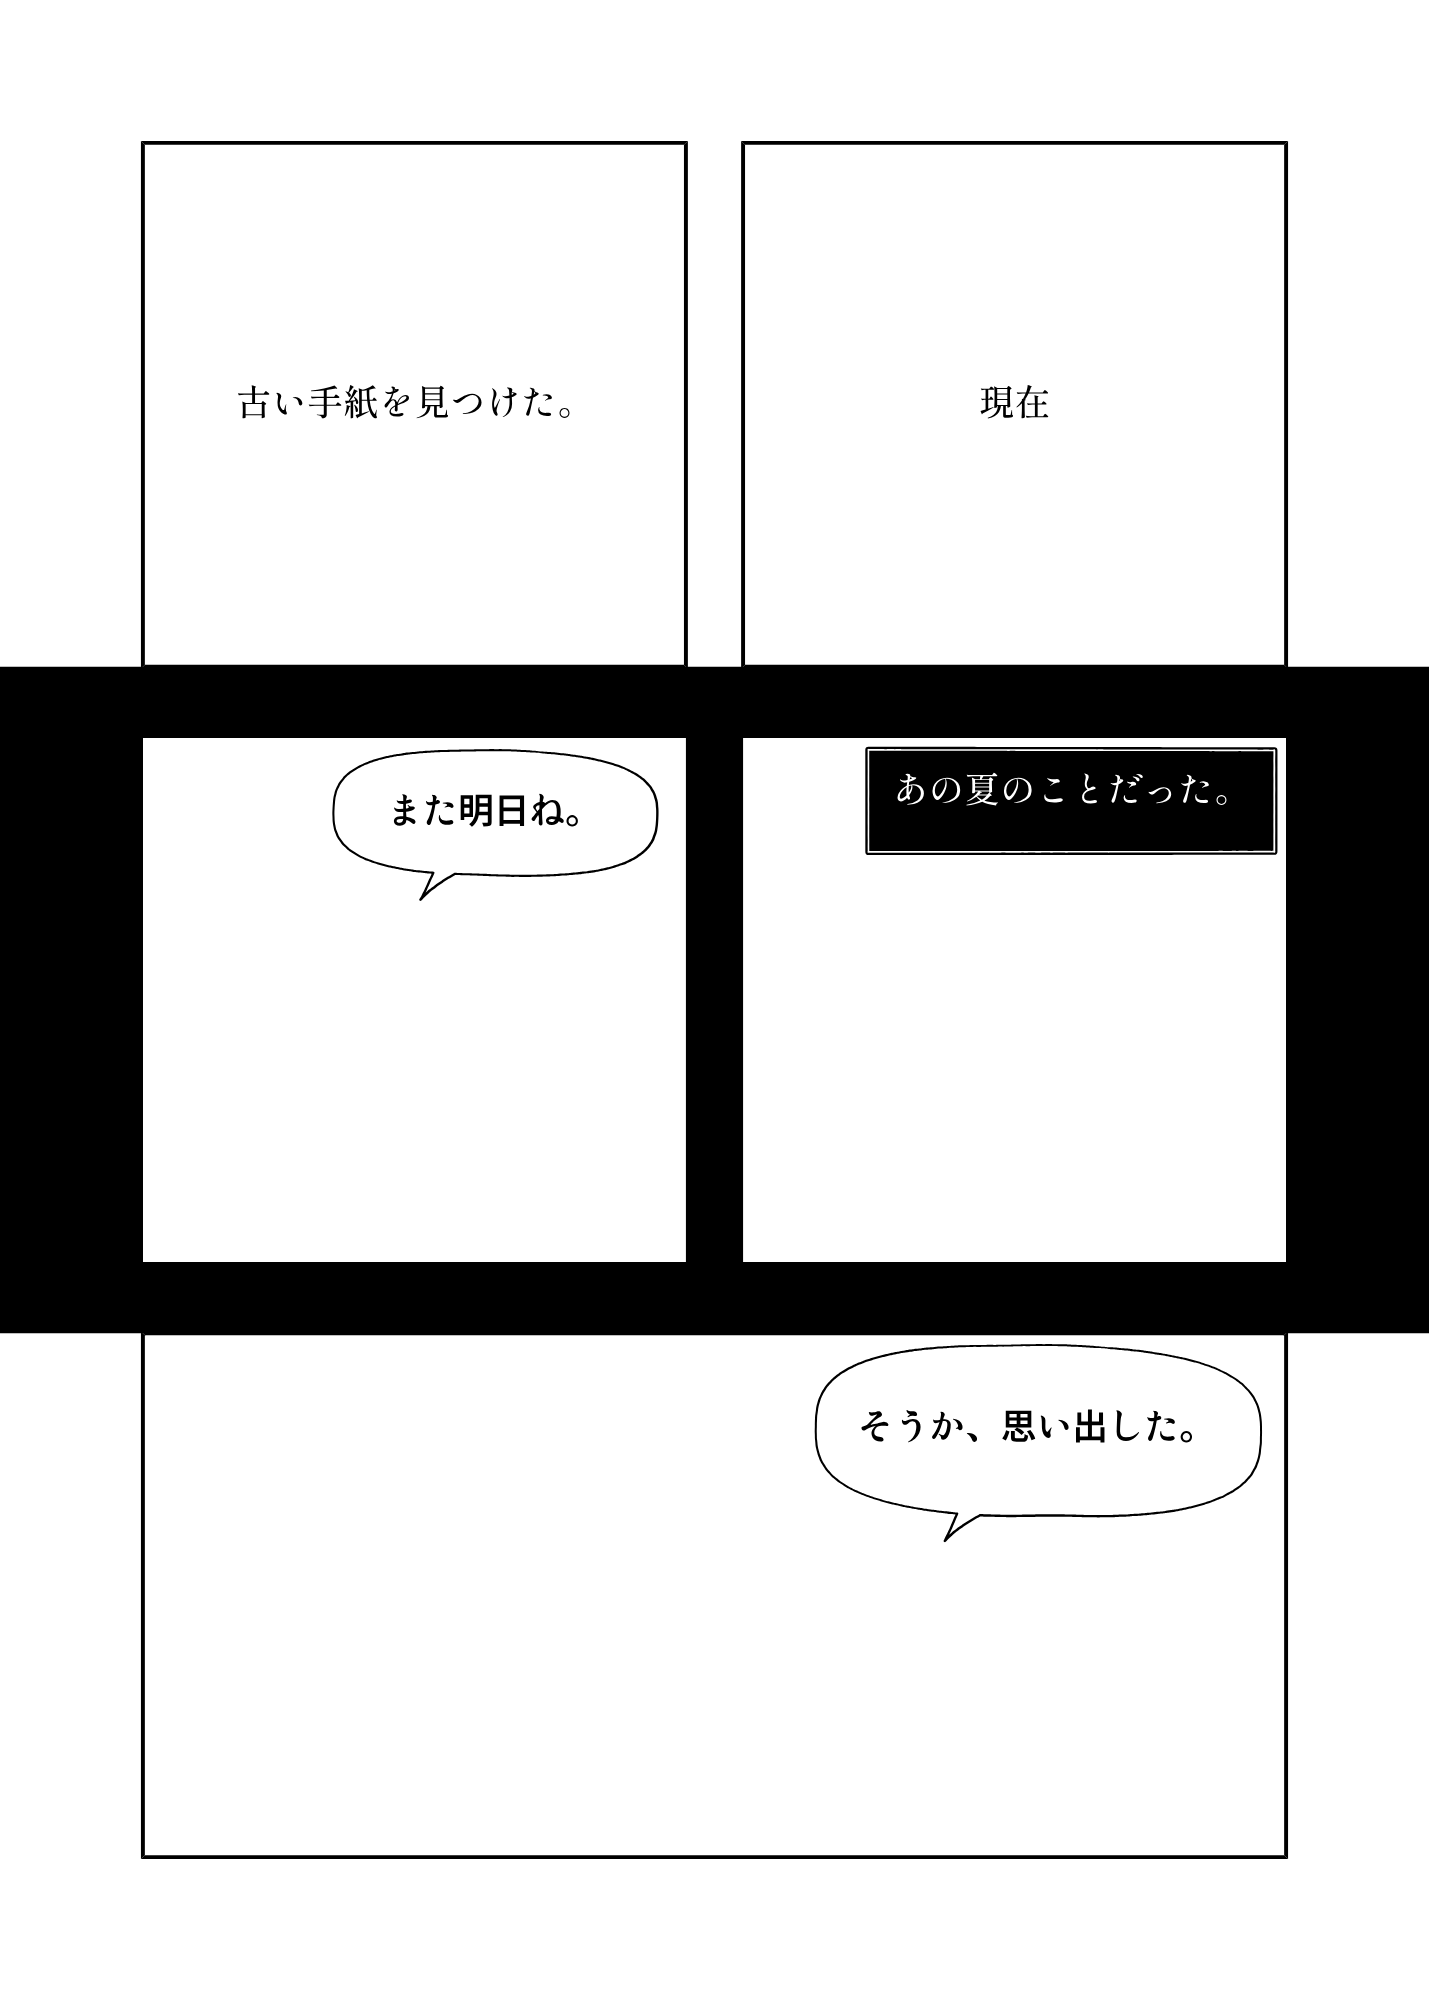
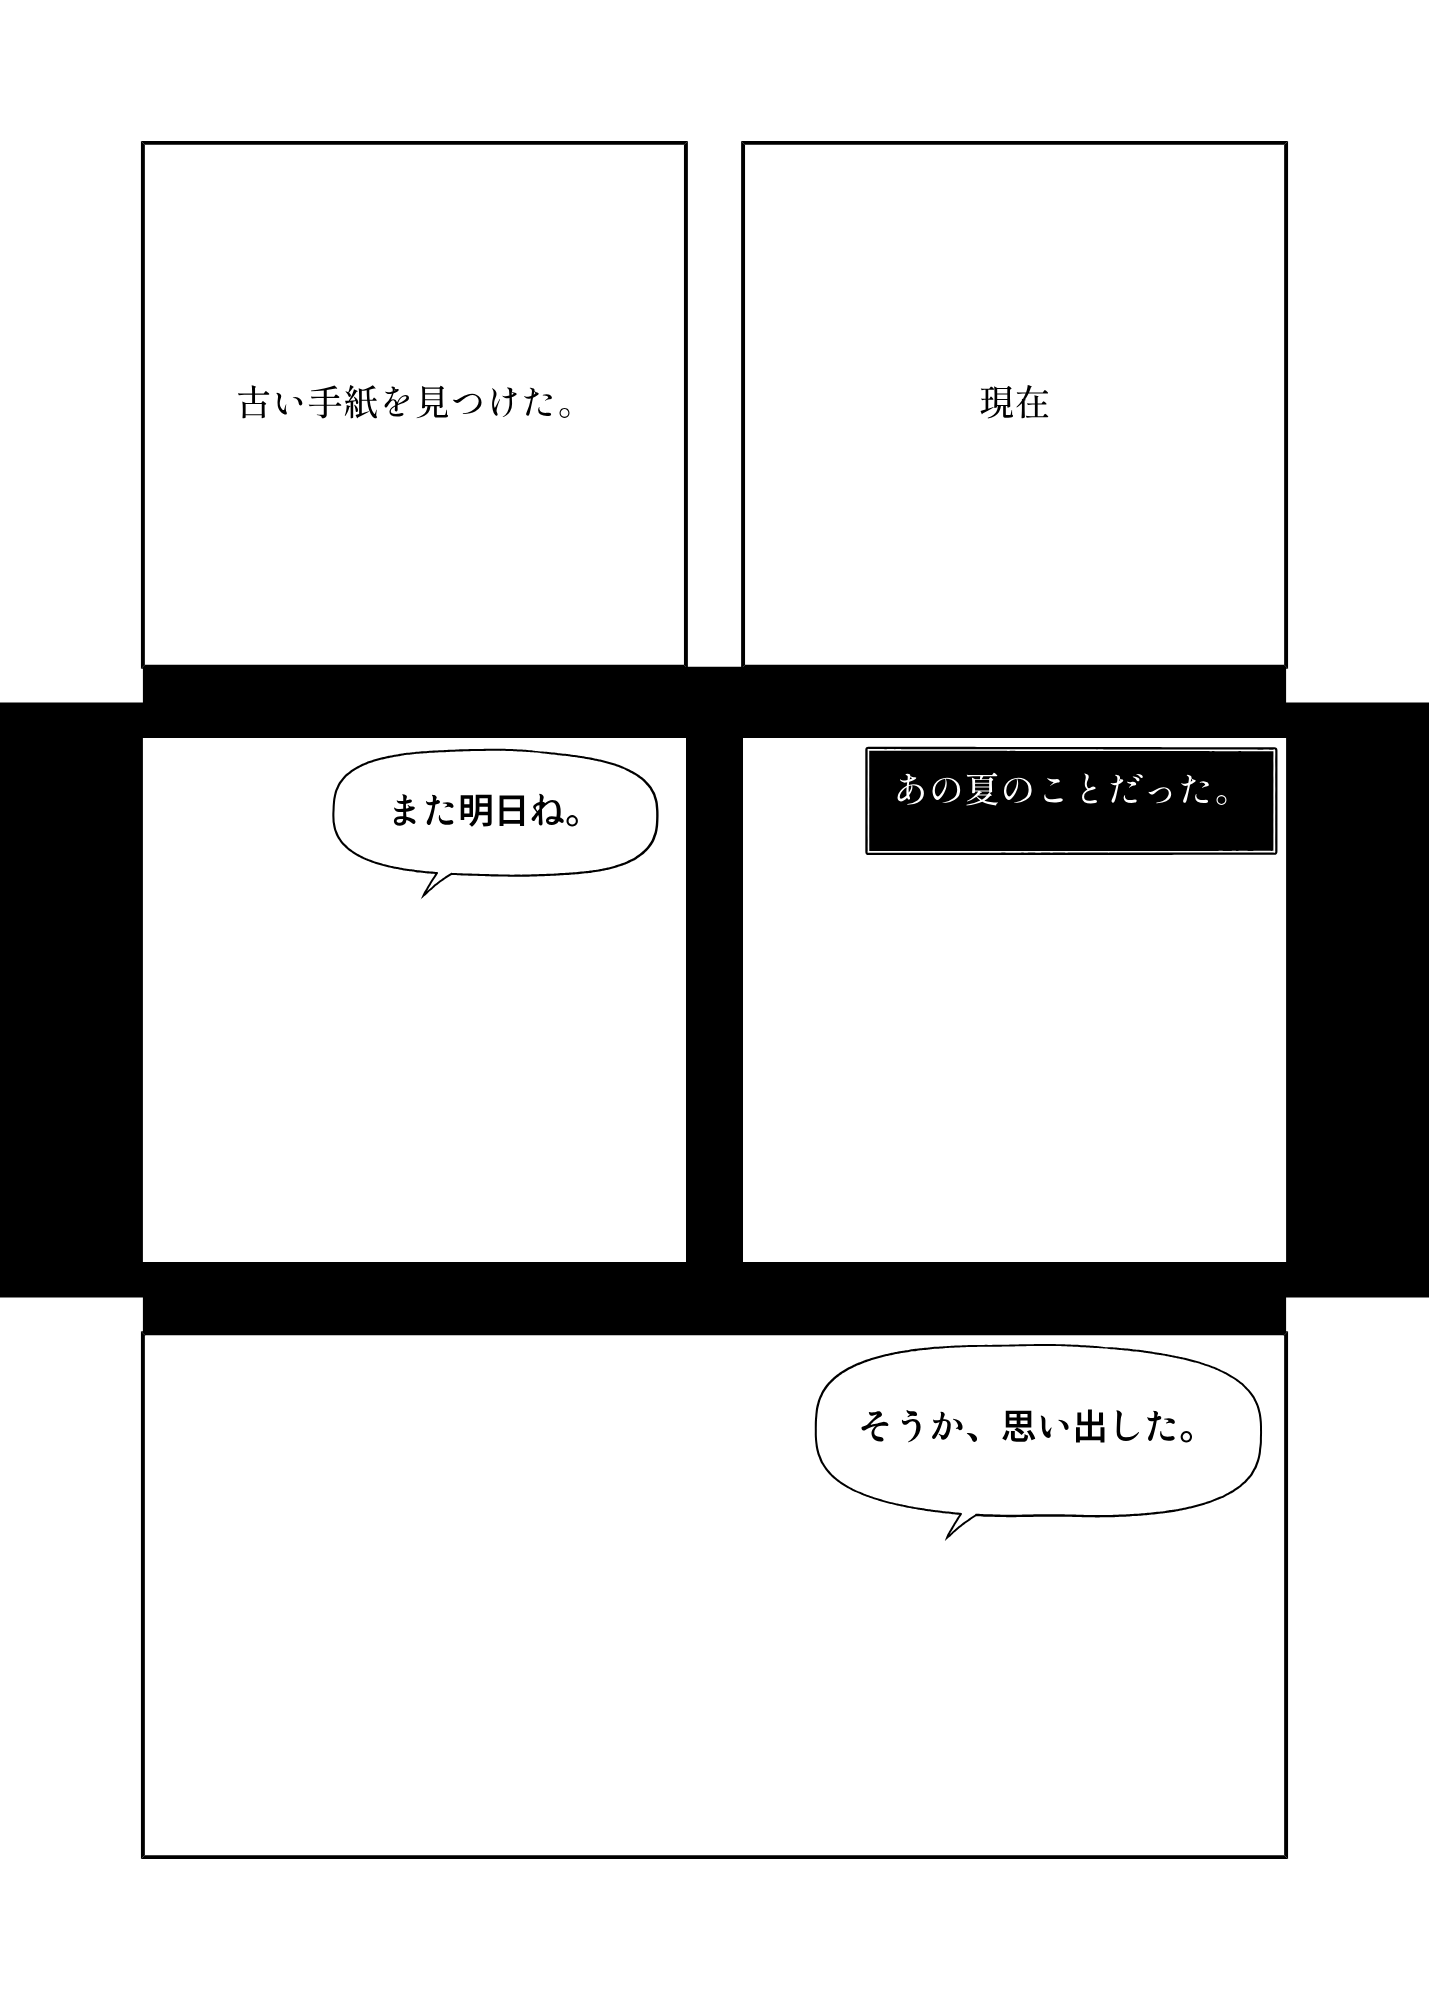
回想コマが接する外側の余白を断ち切りまで黒くする (#105)
* 回想コマが接する外側の余白を断ち切りまで黒くする

* 回想の外側余白を隣の通常コマとの間白中央で区切る

* 断ち切りコマ間の回想の黒い間白を基本枠の外にも保つ

---------

diff --git a/src/render/compose.ts b/src/render/compose.ts
@@ -479,7 +479,11 @@ export async function composePage(doc: ResolvedDoc, page: RPage, physicalIndex: 
   }
   if (page.settings.mood !== "flashback") {
     const flashbackPanels = panels.filter((pg) => pg.panel.props.mood === "flashback" && pg.panel.props.visible !== false && pg.polygon.length >= 3 && Math.abs(polygonArea(pg.polygon)) > 1e-8);
-    const regions = flashbackPanels.flatMap((pg) => flashbackRegion(pg, panels, area, page, geom));
+    const frame = [rectPts(area).map(({ x, y }) => [x, y] as [number, number])];
+    const regions = flashbackPanels.flatMap((pg) => {
+      const interior = polygonClipping.union(frame, ...flashbackGutters(pg, panels));
+      return [...polygonClipping.intersection(flashbackRegion(pg, panels, area, page, geom), interior), ...flashbackMargins(pg, panels, geom)];
+    });
     if (regions.length) {
       const interiors = panelOutlines(panels, geom);
       const surround = polygonClipping.difference(polygonClipping.union(regions[0], ...regions.slice(1)), ...interiors);
@@ -558,6 +562,88 @@ function compositeNodes(nodes: Node[], props: Obj, bag: DiagnosticBag, path: (st
 
 function multiPolyPath(polys: polygonClipping.MultiPolygon) {
   return polys.flatMap((poly) => poly.flatMap((ring) => polyPath(ring.map(([x, y]) => ({ x, y })), true)));
+}
+function flashbackGutters(pg: PanelGeom, panels: PanelGeom[]): polygonClipping.Polygon[] {
+  const pieces: polygonClipping.Polygon[] = [];
+  const sign = polygonArea(pg.polygon) > 0 ? 1 : -1;
+  for (let i = 0; i < pg.polygon.length; i++) {
+    const a = pg.polygon[i], b = pg.polygon[(i + 1) % pg.polygon.length];
+    const len = Math.hypot(b.x - a.x, b.y - a.y);
+    if (len < 1e-8) continue;
+    const n = { x: sign * (b.y - a.y) / len, y: sign * (a.x - b.x) / len };
+    const dot = (p: Vec) => p.x * n.x + p.y * n.y;
+    const tangent = (p: Vec) => -n.y * p.x + n.x * p.y;
+    const ta = tangent(a), tb = tangent(b), edge = dot(a);
+    for (const other of panels) {
+      if (other === pg || other.panel.props.visible === false || other.polygon.length < 3) continue;
+      const gap = Math.min(...other.polygon.map(dot)) - edge;
+      const ts = other.polygon.map(tangent);
+      const lo = Math.max(Math.min(ta, tb), Math.min(...ts));
+      const hi = Math.min(Math.max(ta, tb), Math.max(...ts));
+      if (gap <= 0.01 || hi - lo <= 0.01) continue;
+      const p = { x: a.x - n.y * (lo - ta), y: a.y + n.x * (lo - ta) };
+      const q = { x: a.x - n.y * (hi - ta), y: a.y + n.x * (hi - ta) };
+      pieces.push([[p, q, { x: q.x + n.x * gap, y: q.y + n.y * gap }, { x: p.x + n.x * gap, y: p.y + n.y * gap }].map(({ x, y }) => [x, y])]);
+    }
+  }
+  return pieces;
+}
+function flashbackMargins(pg: PanelGeom, panels: PanelGeom[], geom: PageGeom): polygonClipping.MultiPolygon {
+  const pieces: polygonClipping.MultiPolygon = [];
+  const ring = (poly: Vec[]): polygonClipping.Ring => poly.map(({ x, y }) => [x, y]);
+  const bleed = geom.bleedBox;
+  const sign = polygonArea(pg.polygon) > 0 ? 1 : -1;
+  for (let i = 0; i < pg.polygon.length; i++) {
+    const a = pg.polygon[i], b = pg.polygon[(i + 1) % pg.polygon.length];
+    const nx = sign * (b.y - a.y), ny = sign * (a.x - b.x);
+    if (Math.hypot(nx, ny) < 1e-8) continue;
+    if (pg.polygon.some((p) => (p.x - a.x) * nx + (p.y - a.y) * ny > 1e-8)) continue;
+    const horizontal = Math.abs(nx) >= Math.abs(ny);
+    const positive = (horizontal ? nx : ny) > 0;
+    const target = horizontal ? bleed.x + (positive ? bleed.w : 0) : bleed.y + (positive ? bleed.h : 0);
+    const project = (p: Vec): Vec => horizontal ? { x: target, y: p.y } : { x: p.x, y: target };
+    const transverse = (p: Vec) => horizontal ? p.y : p.x;
+    const corridor = [ring([a, b, project(b), project(a)])];
+    if (Math.abs(polygonArea([a, b, project(b), project(a)])) < 1e-8) continue;
+    const start = transverse(a), span = transverse(b) - start;
+    if (Math.abs(span) < 1e-8) continue;
+    let visible = [[0, 1]];
+    const blocked: number[] = [];
+    for (const other of panels) {
+      if (other.panel.props.visible === false || other.polygon.length < 3) continue;
+      const overlap = polygonClipping.intersection(corridor, [ring(other.polygon)]);
+      for (const poly of overlap) {
+        const contour = poly[0].map(([x, y]) => ({ x, y }));
+        if (Math.abs(polygonArea(contour)) < 1e-8) continue;
+        const ts = contour.map((p) => (transverse(p) - start) / span);
+        const lo = Math.max(0, Math.min(...ts)), hi = Math.min(1, Math.max(...ts));
+        blocked.push(lo, hi);
+      }
+    }
+    if (blocked.length) visible = [[0, Math.min(...blocked)], [Math.max(...blocked), 1]].filter(([lo, hi]) => hi - lo > 1e-8);
+    if (!visible.length) continue;
+    const low = Math.min(start, start + span), high = Math.max(start, start + span);
+    let lower = horizontal ? bleed.y : bleed.x;
+    let upper = horizontal ? bleed.y + bleed.h : bleed.x + bleed.w;
+    for (const other of panels) {
+      if (other === pg || other.panel.props.visible === false || other.polygon.length < 3) continue;
+      const outward = other.polygon.map((p) => horizontal ? p.x : p.y);
+      const edge = horizontal ? [a.x, b.x] : [a.y, b.y];
+      if (positive ? Math.max(...outward) < Math.min(...edge) - 0.01 : Math.min(...outward) > Math.max(...edge) + 0.01) continue;
+      const ts = other.polygon.map(transverse);
+      const lo = Math.min(...ts), hi = Math.max(...ts);
+      if (hi <= low + 0.01) lower = Math.max(lower, (hi + low) / 2);
+      if (lo >= high - 0.01) upper = Math.min(upper, (lo + high) / 2);
+    }
+    for (const [lo, hi] of visible) {
+      const from = lo === 0 ? ((span > 0 ? lower : upper) - start) / span : lo;
+      const to = hi === 1 ? ((span > 0 ? upper : lower) - start) / span : hi;
+      const p = { x: a.x + (b.x - a.x) * from, y: a.y + (b.y - a.y) * from };
+      const q = { x: a.x + (b.x - a.x) * to, y: a.y + (b.y - a.y) * to };
+      pieces.push([ring([p, q, project(q), project(p)])]);
+    }
+  }
+  return pieces.length ? polygonClipping.intersection(polygonClipping.union(pieces[0], ...pieces.slice(1)), [ring(rectPts(bleed))]) : [];
 }
 function flashbackRegion(pg: PanelGeom, panels: PanelGeom[], area: Rect, page: RPage, geom: PageGeom): polygonClipping.MultiPolygon {
   if (pg.polygon.length < 3 || Math.abs(polygonArea(pg.polygon)) < 1e-8) return [];

diff --git a/test/flashback.test.ts b/test/flashback.test.ts
@@ -19,6 +19,67 @@ async function sample(input: Record<string, unknown>, dpi = 254) {
 }
 
 describe("flashback mood", () => {
+  it.each(["top", "right", "bottom", "left"])("keeps the gutter black between panels bled to the %s", async (side) => {
+    const vertical = side === "top" || side === "bottom";
+    const { at } = await sample({ mangacli: 1, page: settings, pages: [{
+      layout: { rows: vertical ? [{ cols: [1, 1] }] : [{ cols: [1] }, { cols: [1] }] },
+      panels: [{ mood: "flashback", bleed: [side] }, { bleed: [side] }],
+    }] });
+    for (const distance of [-2, 1, 5, 9, 11]) {
+      const x = vertical ? 40 : side === "left" ? distance : 80 - distance;
+      const y = vertical ? side === "top" ? distance : 80 - distance : 40;
+      expect(at(x, y), `${x},${y}`).toBe(0);
+    }
+  });
+
+  it("extends inset outer-facing edges to bleed without covering a normal neighbour", async () => {
+    const { at } = await sample({ mangacli: 1, page: settings, pages: [{ layout: "free", panels: [
+      { mood: "flashback", coords: "page", box: ["20mm", "20mm", "25mm", "40mm"] },
+      { coords: "page", box: ["51mm", "20mm", "15mm", "40mm"] },
+    ] }] });
+    for (const [x, y] of [[-2, 40], [30, -2], [30, 82], [10, 40], [30, 10], [30, 70], [48, 40]]) expect(at(x, y)).toBe(0);
+    expect(at(58, 40)).toBe(255);
+    expect(at(78, 40)).toBe(255);
+  });
+
+  it("cuts P10-like margins at the gutter center beside the normal top panel", async () => {
+    const { at } = await sample({ mangacli: 1, page: settings, pages: [{
+      layout: { rows: [{ cols: [1, 1] }, { cols: [1] }, { cols: [1] }] },
+      panels: [{}, { mood: "flashback" }, { mood: "flashback" }, { mood: "flashback" }],
+    }] });
+    for (const x of [-2, 5, 20, 40, 60, 75, 82]) for (const y of [75, 82]) expect(at(x, y), `${x},${y}`).toBe(0);
+    for (const x of [-2, 5, 20, 39]) expect(at(x, -2)).toBe(0);
+    for (const x of [41, 60, 75, 82]) expect(at(x, -2)).toBe(255);
+    for (const y of [20, 40, 60]) for (const x of [-2, 5]) expect(at(x, y), `${x},${y}`).toBe(0);
+    for (const x of [75, 82]) {
+      expect(at(x, 28)).toBe(255);
+      expect(at(x, 30)).toBe(0);
+      expect(at(x, 60)).toBe(0);
+    }
+    expect(at(40, 20)).toBe(0);
+    expect(at(60, 20)).toBe(255);
+    expect(at(20, 20)).toBe(255);
+    expect(at(40, 40)).toBe(255);
+    expect(at(40, 60)).toBe(255);
+  });
+
+  it("keeps P11-like normal-panel side and bottom margins white", async () => {
+    const { at } = await sample({ mangacli: 1, page: settings, pages: [{
+      layout: { rows: [{ cols: [1] }, { cols: [1, 1] }, { cols: [1] }] },
+      panels: [{ mood: "flashback" }, {}, {}, {}],
+    }] });
+    for (const x of [-2, 5, 75, 82]) {
+      for (const y of [-2, 5, 20, 28]) expect(at(x, y), `${x},${y}`).toBe(0);
+      for (const y of [30, 40, 60, 75, 82]) expect(at(x, y), `${x},${y}`).toBe(255);
+    }
+    for (const x of [20, 40, 60]) {
+      expect(at(x, -2)).toBe(0);
+      expect(at(x, 82)).toBe(255);
+    }
+    expect(at(40, 29)).toBe(0);
+    expect(at(40, 40)).toBe(255);
+  });
+
   it.each(["ellipse", "cloud", "rounded"])("paints black up to the rendered %s flashback outline", async (shape) => {
     const { at } = await sample({ mangacli: 1, page: settings, pages: [{ layout, panels: [{ mood: "flashback", shape: { kind: shape, radius: "6mm" } }, {}, {}, {}] }] });
     expect(at(44, 11)).toBe(0);
